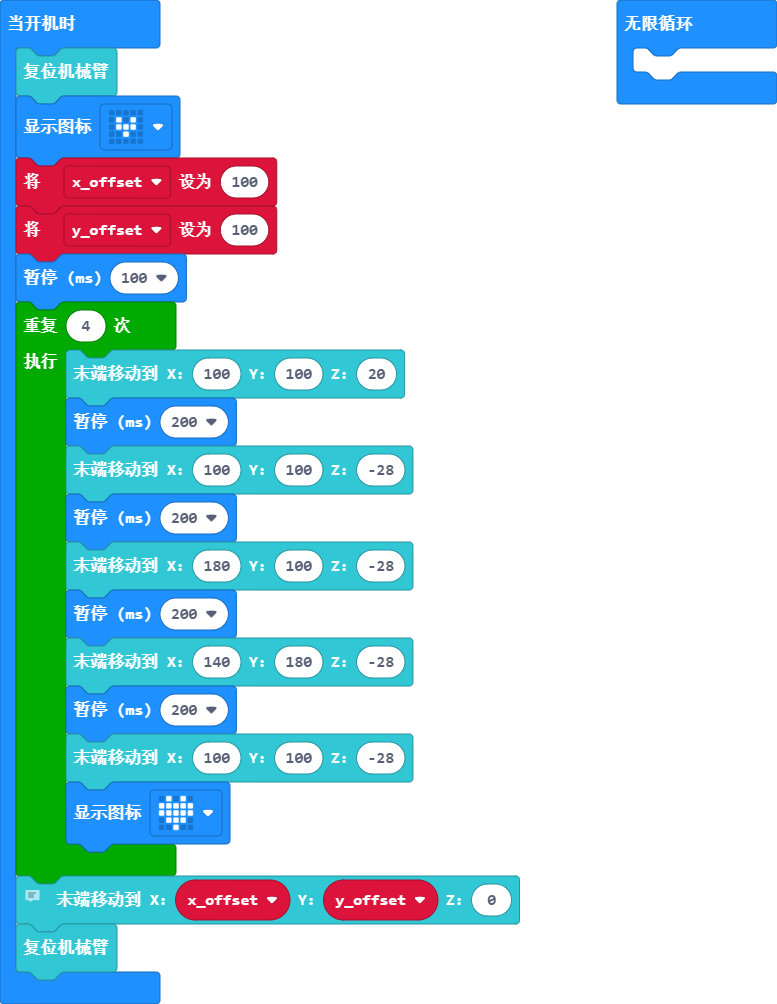
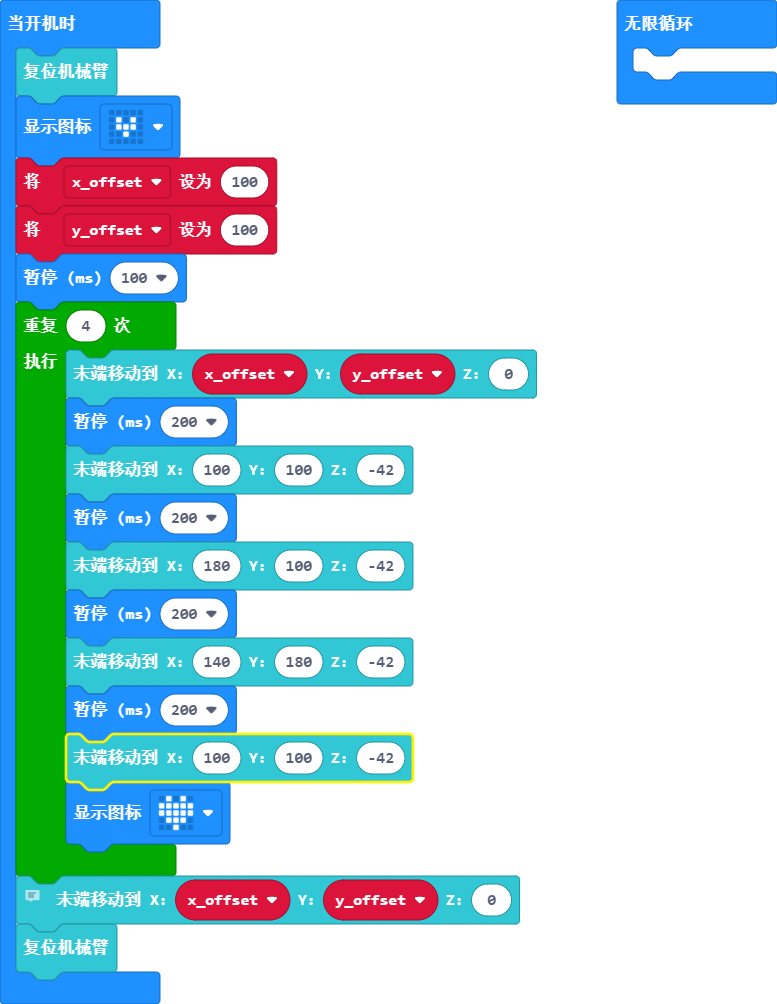
更新 pxt.json, main.blocks, main.ts

diff --git a/main.ts b/main.ts
@@ -6,13 +6,13 @@ basic.pause(100)
 for (let index = 0; index < 4; index++) {
     writingrobot.moveXYZ(x_offset, y_offset, 0)
     basic.pause(200)
-    writingrobot.moveXYZ(100, 100, -32)
+    writingrobot.moveXYZ(100, 100, -42)
     basic.pause(200)
-    writingrobot.moveXYZ(180, 100, -32)
+    writingrobot.moveXYZ(180, 100, -42)
     basic.pause(200)
-    writingrobot.moveXYZ(140, 180, -32)
+    writingrobot.moveXYZ(140, 180, -42)
     basic.pause(200)
-    writingrobot.moveXYZ(100, 100, -32)
+    writingrobot.moveXYZ(100, 100, -42)
     basic.showIcon(IconNames.Heart)
 }
 // 归位
